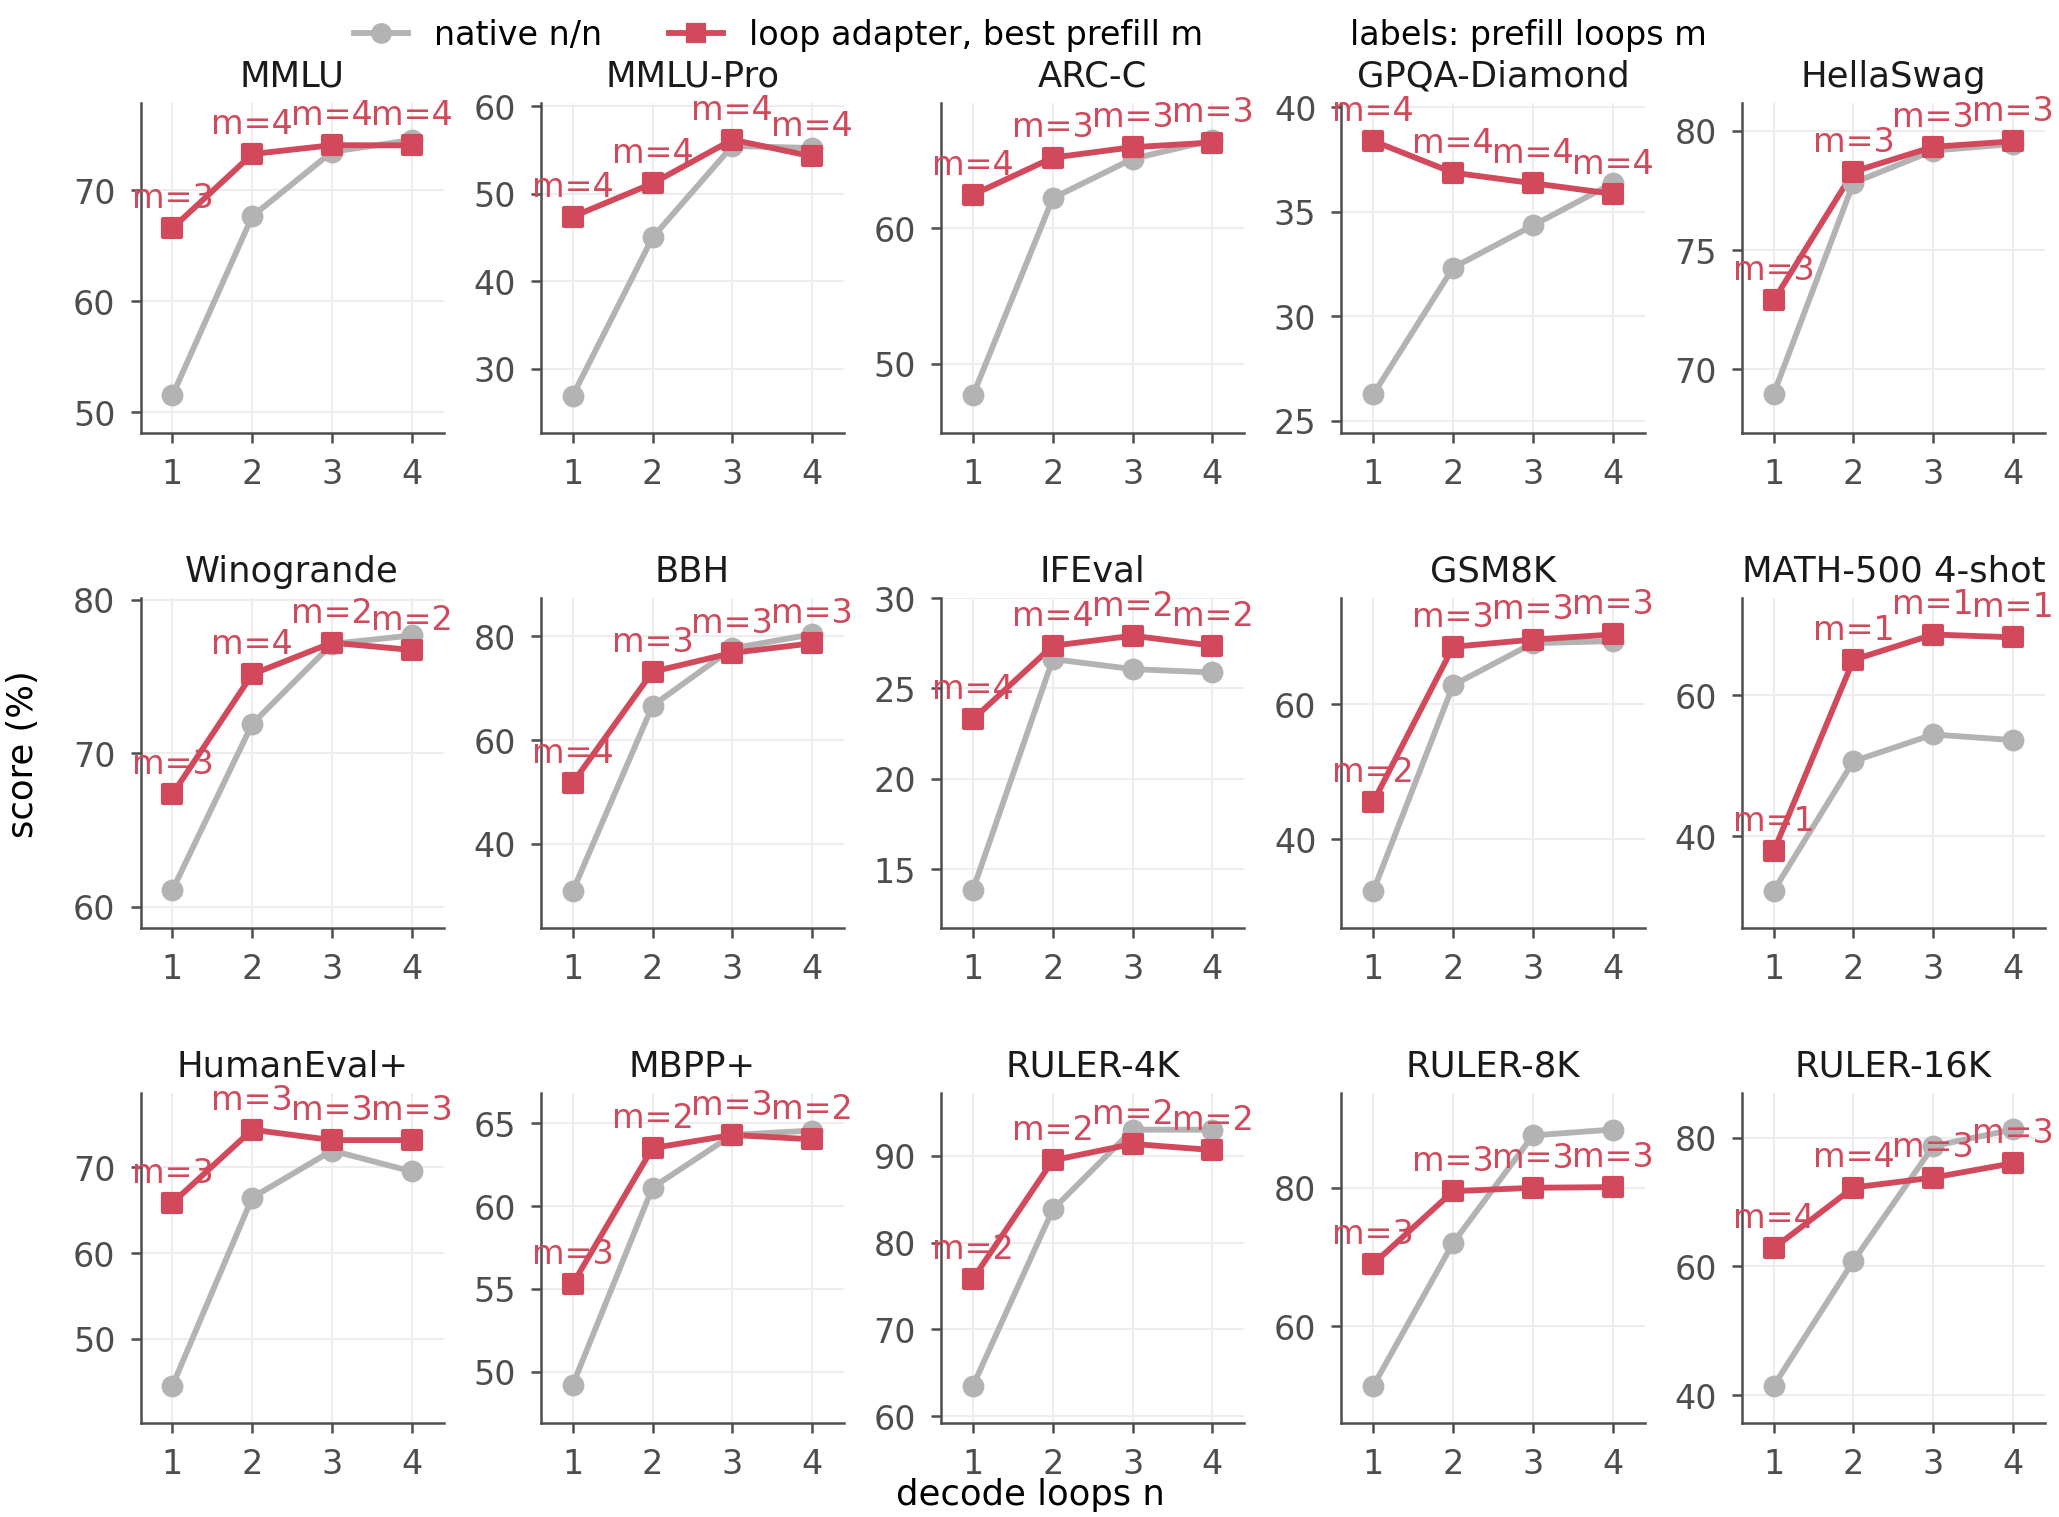
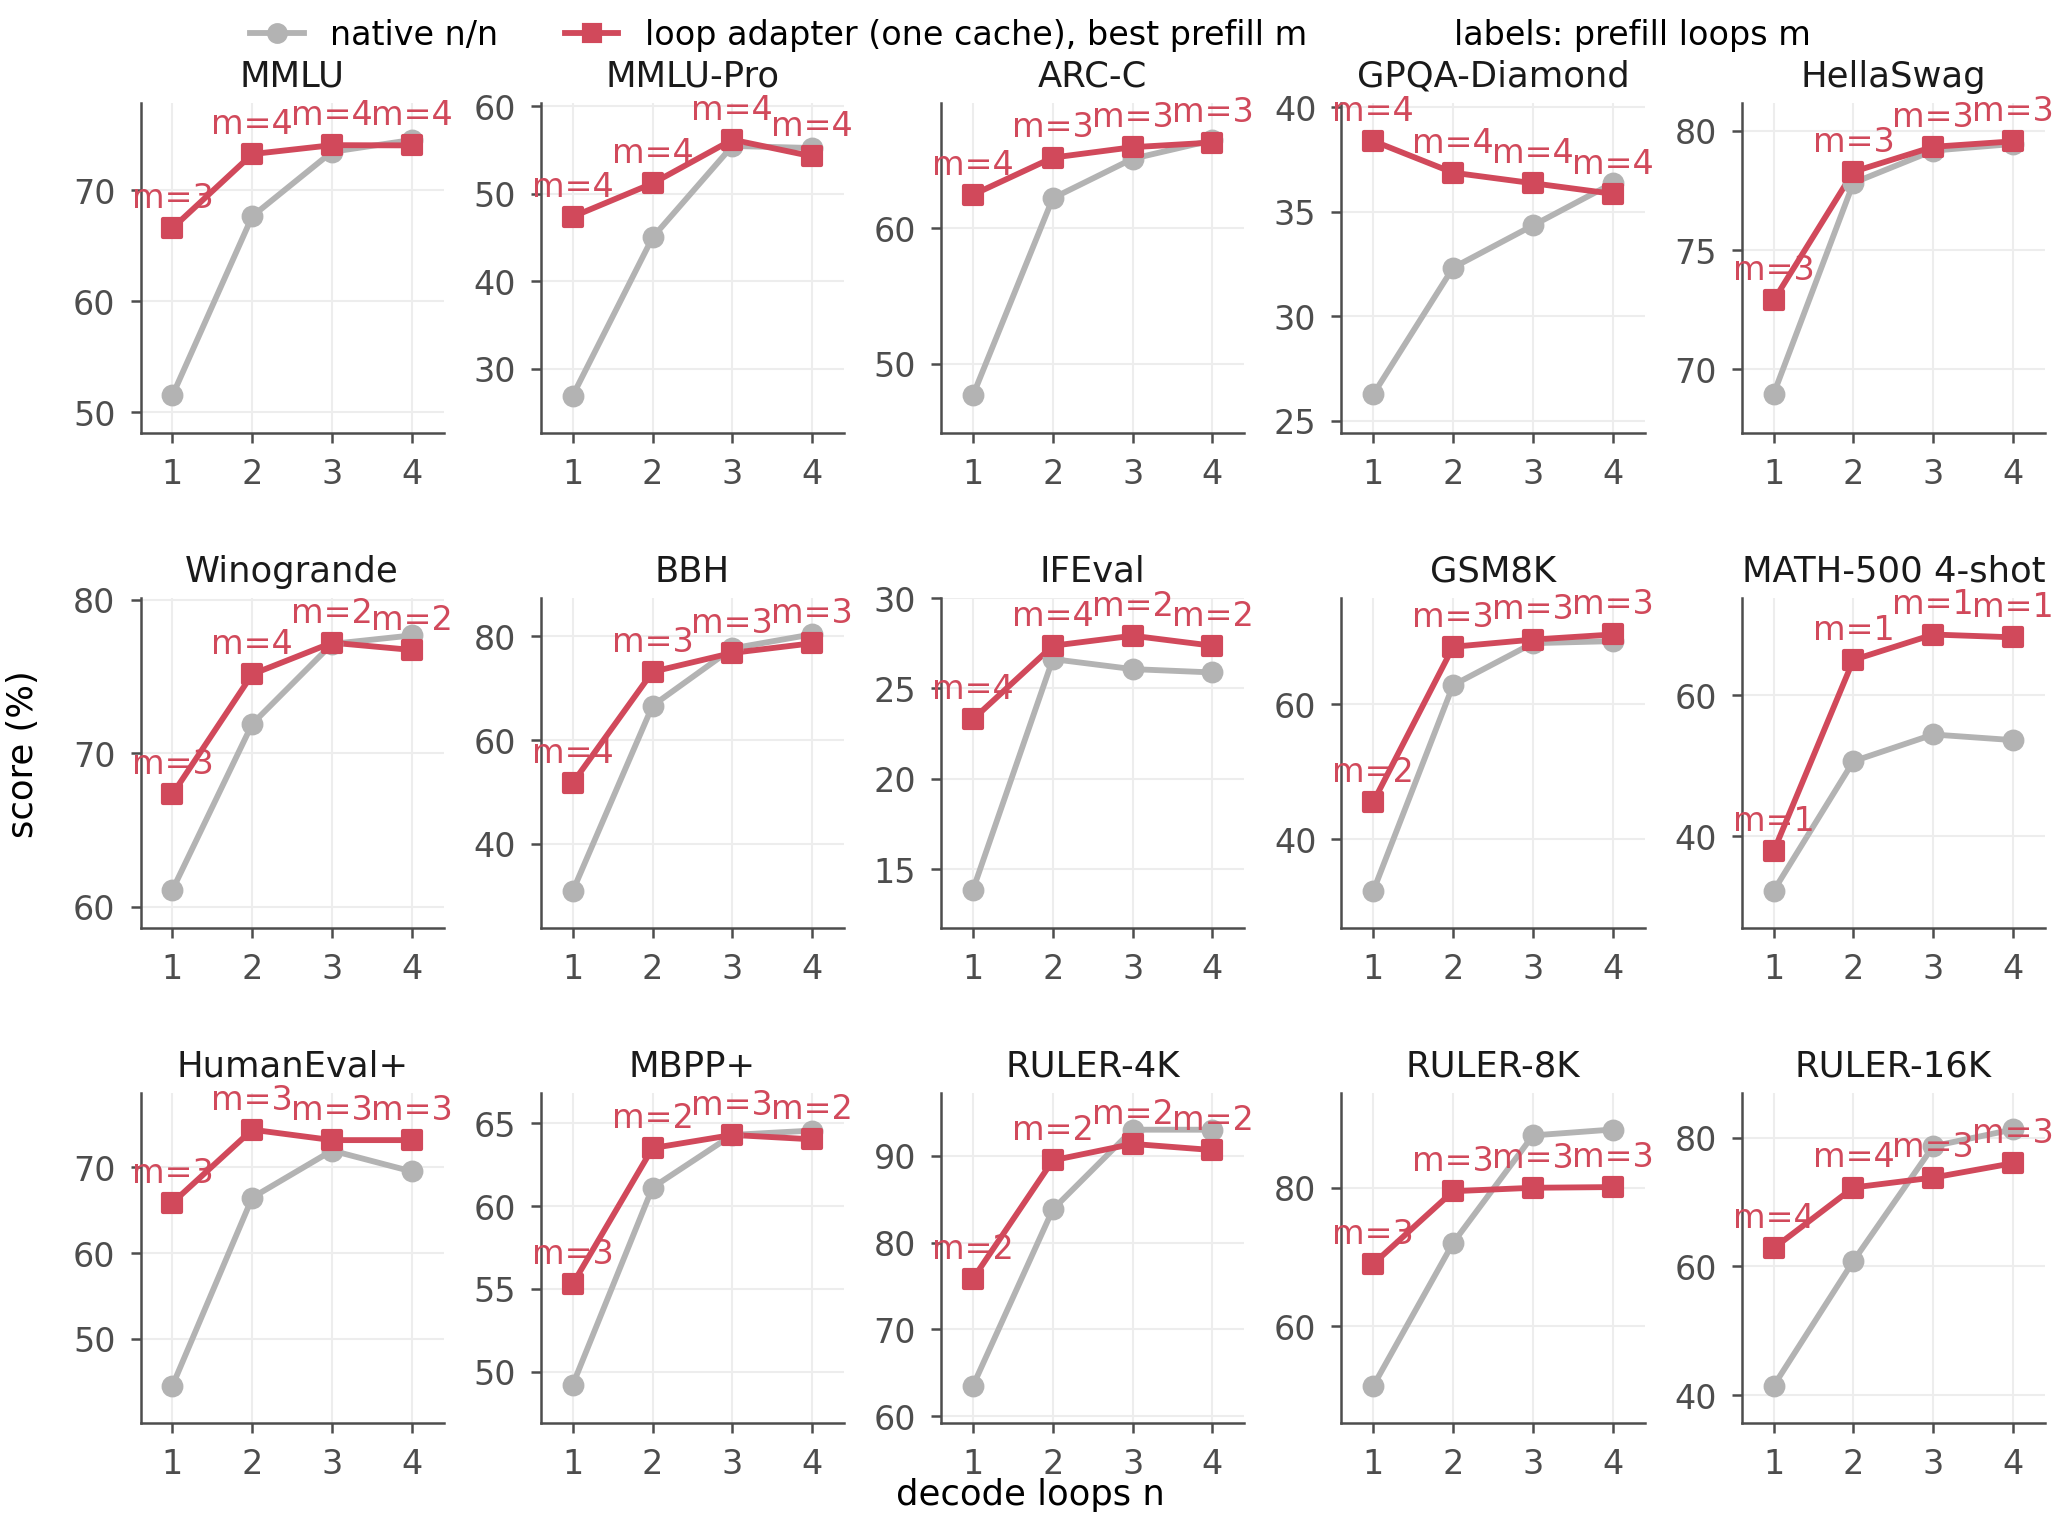
Repository cleanup: queue files in queues/, superseded launchers in deprecated/, obsolete MBPP check deleted, DEPRECATED.md and REPRODUCE.md follow the aligned method, dead plotting code removed

Changed region(s): [[0.1243, 0.0, 0.6217, 0.031], [0.6527, 0.0, 0.8703, 0.031]]

diff --git a/ouro/scripts/paper_figs.py b/ouro/scripts/paper_figs.py
@@ -258,10 +258,9 @@ def tab_sn():
     (OUT / "tab_sn.tex").write_text("\n".join(lines) + "\n")
 
 
-def fig_taskmap(only=None, name="fig_taskmap_full", ncols=4, fixed=None, ours_n=(1, 2, 3, 4)):
-    """Task map: Ouro-2.6B, one loop adapter. Per benchmark, native n/n against the adapter's best prefill count m
-    at each number of decode loops n (point labels: that m), or with fixed=m against prefill m at every n (Figure 1);
-    all points of a panel on the same items (taskmap_cells)."""
+def fig_taskmap(only=None, name="fig_taskmap_full", ncols=4):
+    """Appendix task map: Ouro-2.6B, one-cache loop adapter. Per benchmark, native n/n against the adapter's best prefill
+    count m at each number of decode loops n (point labels: that m); all points of a panel on the same items."""
     T = {r["bench"]: r for r in PN["taskmap_cells"] if r["model"] == "Ouro-2.6B"}
     title = {"BBH 3-shot": "BBH"}
     panels = [b for b in ("MMLU", "MMLU-Pro", "ARC-C", "GPQA-Diamond", "HellaSwag", "Winogrande", "BBH 3-shot", "IFEval",
@@ -275,16 +274,12 @@ def fig_taskmap(only=None, name="fig_taskmap_full", ncols=4, fixed=None, ours_n=
         ax.axis("off")
     for ax, b in zip(axes.flat, panels):
         r = T[b]
-        ours = ([(n, r[f"S{fixed}{n}"], "") for n in ours_n] if fixed else
-                [(n, r[f"S{r['best'][str(n)]}{n}"], f"m={r['best'][str(n)]}") for n in range(1, 5)])
+        ours = [(n, r[f"S{r['best'][str(n)]}{n}"], f"m={r['best'][str(n)]}") for n in range(1, 5)]
         nat = [(n, r[f"native{n}"], "") for n in range(1, 5)]
         frontier(ax, nat, ours, title.get(b, b))
         ax.set_xticks([1, 2, 3, 4]); ax.set_xlim(0.6, 4.4)
     fig.supxlabel("decode loops n", fontsize=8.5, y=0.005); fig.supylabel("score (%)", fontsize=8.5, x=0.005)
-    if fixed:
-        legend(fig, f"loop adapter, prefill {fixed} / decode n", "", y=1.0)
-    else:
-        legend(fig, "loop adapter, best prefill m", "labels: prefill loops m", y=1.0)
+    legend(fig, "loop adapter (one cache), best prefill m", "labels: prefill loops m", y=1.0)
     fig.subplots_adjust(wspace=0.32, hspace=0.5, left=0.07, right=0.99, top=1 - 0.38 / H, bottom=0.32 / H)
     save(fig, name)
 

diff --git a/ouro/runs_scripts/deprecated/make_bib.py b/ouro/runs_scripts/deprecated/make_bib.py
@@ -1,3 +1,5 @@
+# DEPRECATED: generated the first references.bib from arXiv ids. references.bib now also holds hand-verified
+# entries (venues, non-arXiv papers); running this would drop them. Edit references.bib directly.
 """references.bib from arXiv metadata (export API) — no hand-typed authors or titles."""
 import re, sys, time, urllib.request, xml.etree.ElementTree as ET
 

diff --git a/REPRODUCE.md b/REPRODUCE.md
@@ -47,7 +47,9 @@ software versions, times, checkpoint sha256 and training log, the cleaned evalua
 
 | checkpoint | used for | launcher |
 |---|---|---|
-| Ouro-2.6B loop adapter `X26-S-universal` | task map, cross-fitted table, Pareto, design variants | `launch_s.sh` (= `run_mix2.sh X26-S-universal S <gpus> <port> 48000000 --micro 1`) |
+| Ouro-2.6B aligned loop adapter `X26-a-universal` (arm a, the main method) | Table 1, Figure 1, aligned map, throughput | `launch_aligned.sh` (`SEED=2/3`: seeds; `TOK=6/12`: token ablation) |
+| Ouro-1.4B and Thinking aligned adapters `O14-a-`, `T26-a-`, `T14-a-universal` | Ouro-1.4B table, Thinking figures and appendix | `launch_aligned_more.sh 14 / think / think14`, then `eval_think_aligned.sh` |
+| Ouro-2.6B one-cache loop adapter `X26-S-universal` (arm S, the memory-saving variant) | one-cache rows of Table 1, task map, cross-fitted table, Pareto, design variants | `launch_s.sh` (= `run_mix2.sh X26-S-universal S <gpus> <port> 48000000 --micro 1`) |
 | second seed `X26-S-seed2` | training-seed appendix | `launch_seed2.sh` |
 | Ouro-1.4B loop adapter `O14-S-universal` | Ouro-1.4B task map, other checkpoints | `launch_scale.sh` |
 | Ouro-2.6B-Thinking `T26-S-universal` | Figure 4, timing, Thinking appendix | `launch_think.sh` |
@@ -81,21 +83,35 @@ reads (`CMP`, `MEANS`, `TASK_MAP`, `TASK_MAP_14`, `EQUAL`, `SN_EQUAL`, `SN_STATE
 
 | element | runs (launcher) | computed by |
 |---|---|---|
-| Figure 1 / full task map (Ouro-2.6B, 15 settings x 16 pairs + native; Ouro's protocol) | `grid_q*_a{1,2}.txt`, `mn_low_prefill.sh`, `mn_math_grid.sh`, `fullsets_q.txt`, `protocol_q.sh` (HellaSwag, Winogrande), `evalplus_q.sh` + `ouro/scripts/score_evalplus.py` (code) | `paper_numbers.py` (`Task map` means) → `paper_figs.py fig_taskmap` |
+| Table 1 (main results) | aligned: `launch_aligned.sh`; one cache: task-map runs; training-free rows: `raw_q.sh`; distilled rows: `launch_x26_distill.sh` + `after_x26_distill.sh`, `controls_first_chain.sh`, `distill_fullsets.sh`; seeds: `seed_main.sh`, `seed2_q.sh` | `paper_numbers.py` `main_table` → `paper_figs.py tab_main` |
+| ablation table (training tokens, LoRA rank) | `ablate_tokens.sh` | `paper_numbers.py` `ablations` → `tab_ablation` |
+| aligned map (appendix) and Figure 1 | `launch_aligned.sh` (`CELLS=...`) | `paper_numbers.py` `aligned_cells` → `fig_aligned`, `tab_aligned` |
+| smaller model at equal time; corrected distilled timing | `time_small.sh`; `time_t26d.sh` | `paper_numbers.py` `smaller_model`, `e2e_table` |
+| aligned-cache throughput | `tput_aligned.sh` (decoder checked by `ouro/scripts/check_aligned_runner.py`) | `paper_numbers.py` `appendix_checks` |
+| from-scratch re-runs | `verify_q.sh` | `ouro/scripts/verify_compare.py` → `ouro/results/verify_rerun.txt` |
+| Figure 1 / full task map (Ouro-2.6B, 15 settings x 16 pairs + native; Ouro's protocol) | `queues/grid_q*_a{1,2}.txt`, `mn_low_prefill.sh`, `mn_math_grid.sh`, `queues/fullsets_q.txt`, `protocol_q.sh` (HellaSwag, Winogrande), `evalplus_q.sh` + `ouro/scripts/score_evalplus.py` (code) | `paper_numbers.py` (`Task map` means) → `paper_figs.py fig_taskmap` |
 | Table 1, cross-fitted choice of prefill loops (and the Ouro-1.4B table) | as above; `grid14_q_*.txt` | `paper_numbers.py` `taskmap_select` → `paper_figs.py tab_select` |
-| Figure 4 and its numbers table (Ouro-2.6B-Thinking, eight benchmarks) | `launch_think.sh` evaluations, `grid_q3_a2.txt` (prefill 1 / decode 2) | `paper_numbers.py` `equal` → `fig_equal`, `tab_equal` |
+| Figure 4 and its numbers table (Ouro-2.6B-Thinking, eight benchmarks) | `launch_think.sh` evaluations, `queues/grid_q3_a2.txt` (prefill 1 / decode 2) | `paper_numbers.py` `equal` → `fig_equal`, `tab_equal` |
 | distillation table | `eval_t26d.sh` | `paper_numbers.py` (`Distillation baseline`) → `tab_distill` |
 | Pareto figure, throughput table | `tput_sb.sh` (`ouro/bench_throughput.py`) | `paper_numbers.py` `throughput`, `paper_figs.py fig_pareto` |
 | end-to-end time (Figure 6, timing table) | `ouro/scripts/e2e_latency.py` (batch 1, one idle GPU), `sn_e2e_after.sh` | `paper_numbers.py` (`RATIOS`) |
 | decision models (Lev), both directions | `ouro/lev/`, `ouro/runs_scripts/lev_mn.sh` | `paper_numbers.py` `lev` → `fig_lev`, `tab_lev` |
 | Ouro-1.4B-Thinking appendix | `t14_head.sh` | `paper_numbers.py` `equal` → `tab_equal` |
-| SenseNova and hybrid-state appendices | `sn_head.sh`, `sn_math_rest.sh`, `sn_rebalance*.sh`, `sn_arc_mix.sh`, `launch_sng.sh` | `paper_numbers.py` (`Hybrid state`, `sn_equal`) → `tab_hybrid`, `tab_sn` |
+| SenseNova and hybrid-state appendices | `sn_head.sh`, `sn_math_rest.sh`, `sn_rebalance*.sh`, `sn_followup.sh`, `sn_arc_mix.sh`, `launch_sng.sh` | `paper_numbers.py` (`Hybrid state`, `sn_equal`) → `tab_hybrid`, `tab_sn` |
 | single-cache exactness (512/512 tokens) | `ouro/scripts/single_bank_check.py` | — |
 | paper PDF and arXiv package | — | in order: `paper_numbers.py compute`, `paper_figs.py`, compile `paper/latex/main.tex`, `paper/build_arxiv.py` |
 
 `paper_numbers.py compute` also checks every number quoted in the text against hard-coded expectations (including the
 11-of-13 / 9-of-13 counts of Table 1 and 10 / 2 of 13 on Ouro-1.4B) and reports any mismatch with `!!`. Not covered: the long-answer throughput
 and batch-size measurements, the parser diagnostics and the MBPP+ format counts (reported as measured).
+
+## Helpers
+
+`grid_worker.sh` (queue runner, two jobs per GPU), `wait_gpus.sh` (start a job when K GPUs are free), `lm1.sh` (one
+lm-evaluation-harness job), `bench3.sh` (RULER / HELMET shards), `run_mix2.sh` (training), `mk_code_local.py` and
+`mk_gpqa_local.py` (local task files), `ouro/lev/levbench_compare.py` (Lev comparisons), `launch_think_o.sh` (answer
+stored once, Thinking), `mbpp3_q.sh` (the earlier MBPP+ prompt of Appendix B). Queue files with the exact commands of
+the grid runs are in `ouro/runs_scripts/queues/`; superseded launchers are in `ouro/runs_scripts/deprecated/`.
 
 ## What is not here
 

diff --git a/DEPRECATED.md b/DEPRECATED.md
@@ -11,9 +11,13 @@ Anything here can be deleted once its importer is cleaned up.
 | arms `A`, `B`, `C` (per-cell adapters), `U`, `V`, `W` (earlier universal adapters), `T`/`Q` (two-source map), `J`/`K` (shallower prefill models) | superseded by the single-bank universal loop adapter, arm `S`, which every paper result uses | `adapter_model.py`, `batched.py`, `train_batched.py` branches |
 | `ouro/runs_scripts/launch_v.sh` | trains arm `V` (superseded by `S`) | — |
 
-Paper arms, for contrast: `S` (the loop adapter, all main results), `O`/`P` (shared answer KV variant, appendix),
-`M` (gated first-loop branch, appendix), `S` with `--freeze-maps` (maps fixed at identity, "What the maps do"),
-`D` (LoRA distillation of native 2/2, `launch_t26d.sh`).
+Paper arms, for contrast: `a` (aligned caches, the main method), `S` (one stored prompt cache, the memory-saving
+variant and the task-map / design-variant appendices), `O`/`P` (shared answer KV variant, appendix), `M` (gated first-loop
+branch, appendix), `S` with `--freeze-maps` (maps fixed at identity), `D`/`E`/`H` (LoRA distillation of native n/n).
+
+Moved to `ouro/runs_scripts/deprecated/` (2026-11-07): `math0_q.sh` (zero-shot MATH-500 grid, stopped),
+`a1_fill.sh` (one-off GPU filler), `make_bib.py` (first references.bib generator; the bib now has hand-verified entries).
+Deleted: `ouro/scripts/rescore_mbpp_plus.py` (a check of the earlier MBPP+ prompt, superseded by evalplus scoring).
 
 Removed outright (in git history if ever needed): probe and "answers without a final answer" analyses, the
 training-free SenseNova appendix, `latest.json`, long-context throughput records, unused per-item score files, old

diff --git a/HANDOFF.md b/HANDOFF.md
@@ -27,7 +27,7 @@ For the next agent taking over *Untying Prefill and Decode Loops in Looped Langu
     (`launch_x26_distill.sh`, runs `X26-{E,D,H}48-*`; E/D on a2, H on a1). `after_x26_distill.sh` queues their 13
     benchmarks when training ends; `paper_numbers.py` `taskmap_select` then fills `distilled` / `diff_distilled`. Put
     the result into Table 1 (a column or a second table), the abstract and Limitations — whatever it shows.
-  - Ouro-1.4B replication on 10 benchmarks (`grid14b_q.txt`) and full GSM8K / MMLU / 1.4B RULER (`fullsets_q.txt`) on
+  - Ouro-1.4B replication on 10 benchmarks (`queues/grid14b_q.txt`) and full GSM8K / MMLU / 1.4B RULER (`queues/fullsets_q.txt`) on
     a1 `grid_worker.sh` queues. When done: add the new benchmarks to `TASK_MAP_14`, update the 1.4B counts and guards.
   - Sync and pipeline: `~/.b300-handoff/pn_sync.sh [export|pipeline|all]` (exports on both boxes, merges into
     `ouro/results/items`, runs numbers/figures/LaTeX/arXiv on a2 and copies outputs back).
